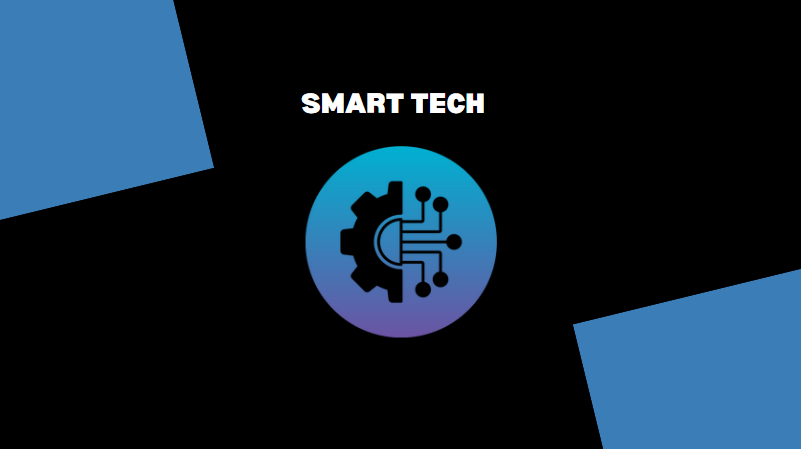
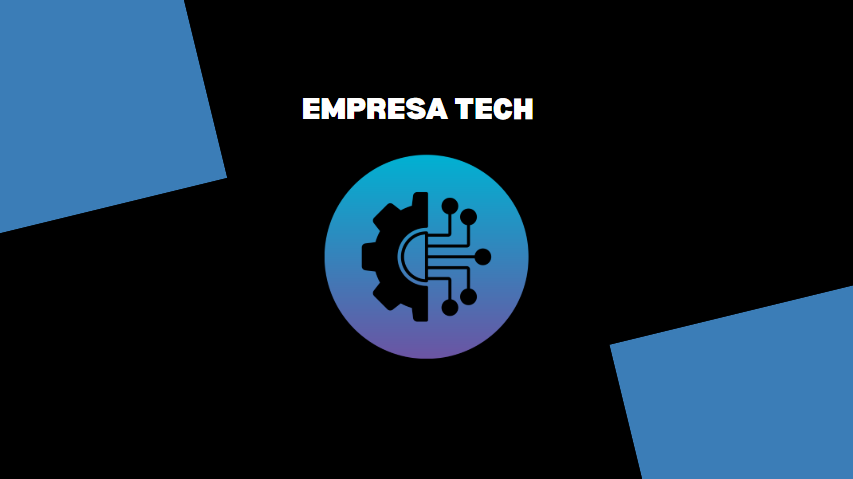
hover_botao_rodapé

diff --git a/atividade/home.html b/atividade/home.html
@@ -3,8 +3,6 @@
 <!-- colocar hover campo de email no rodapé-->
 <!--Adicionar comentário por bloco no código-->
 <!--Colocar vídeo com legenda-->
-<!--Mudar nome para smart tech-->
-<!-- fazer Galeria de imagem-->
 
 
 <head>

diff --git a/atividade/index.css b/atividade/index.css
@@ -190,6 +190,7 @@ footer {
 }
 
 /* Efeito de hover para o botão primário */
+.btn.btn-primary-2:hover,
 .btn.btn-primary:hover,
 .btn.btn-primary:focus,
 .btn.btn-primary:active {
